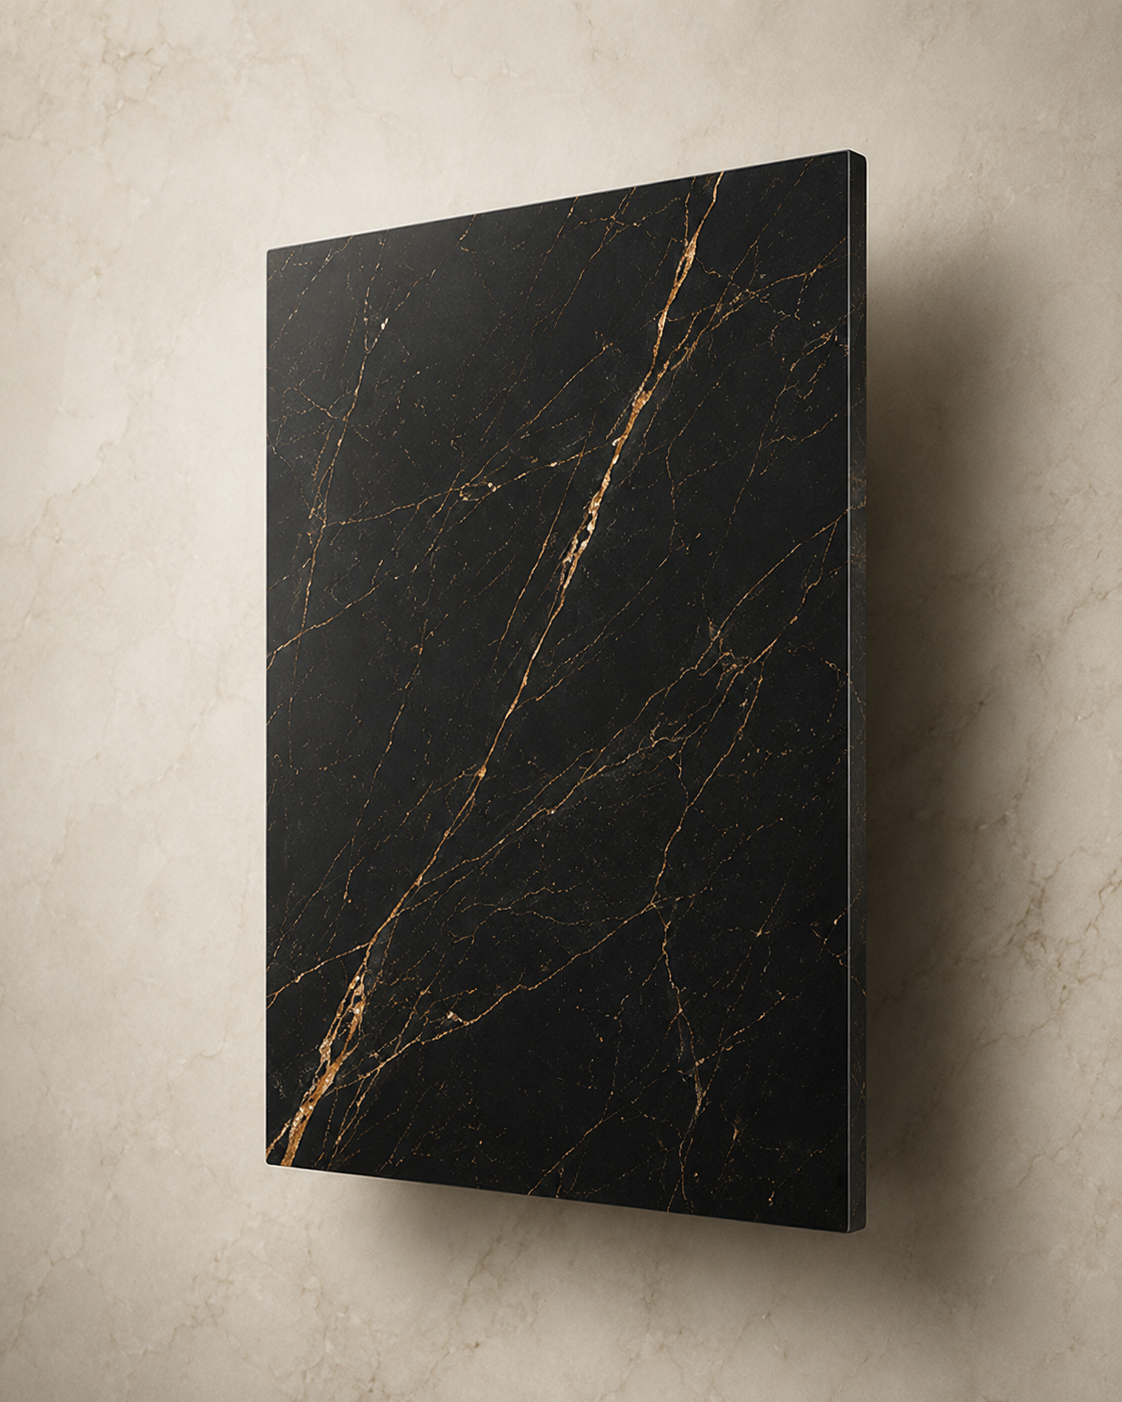
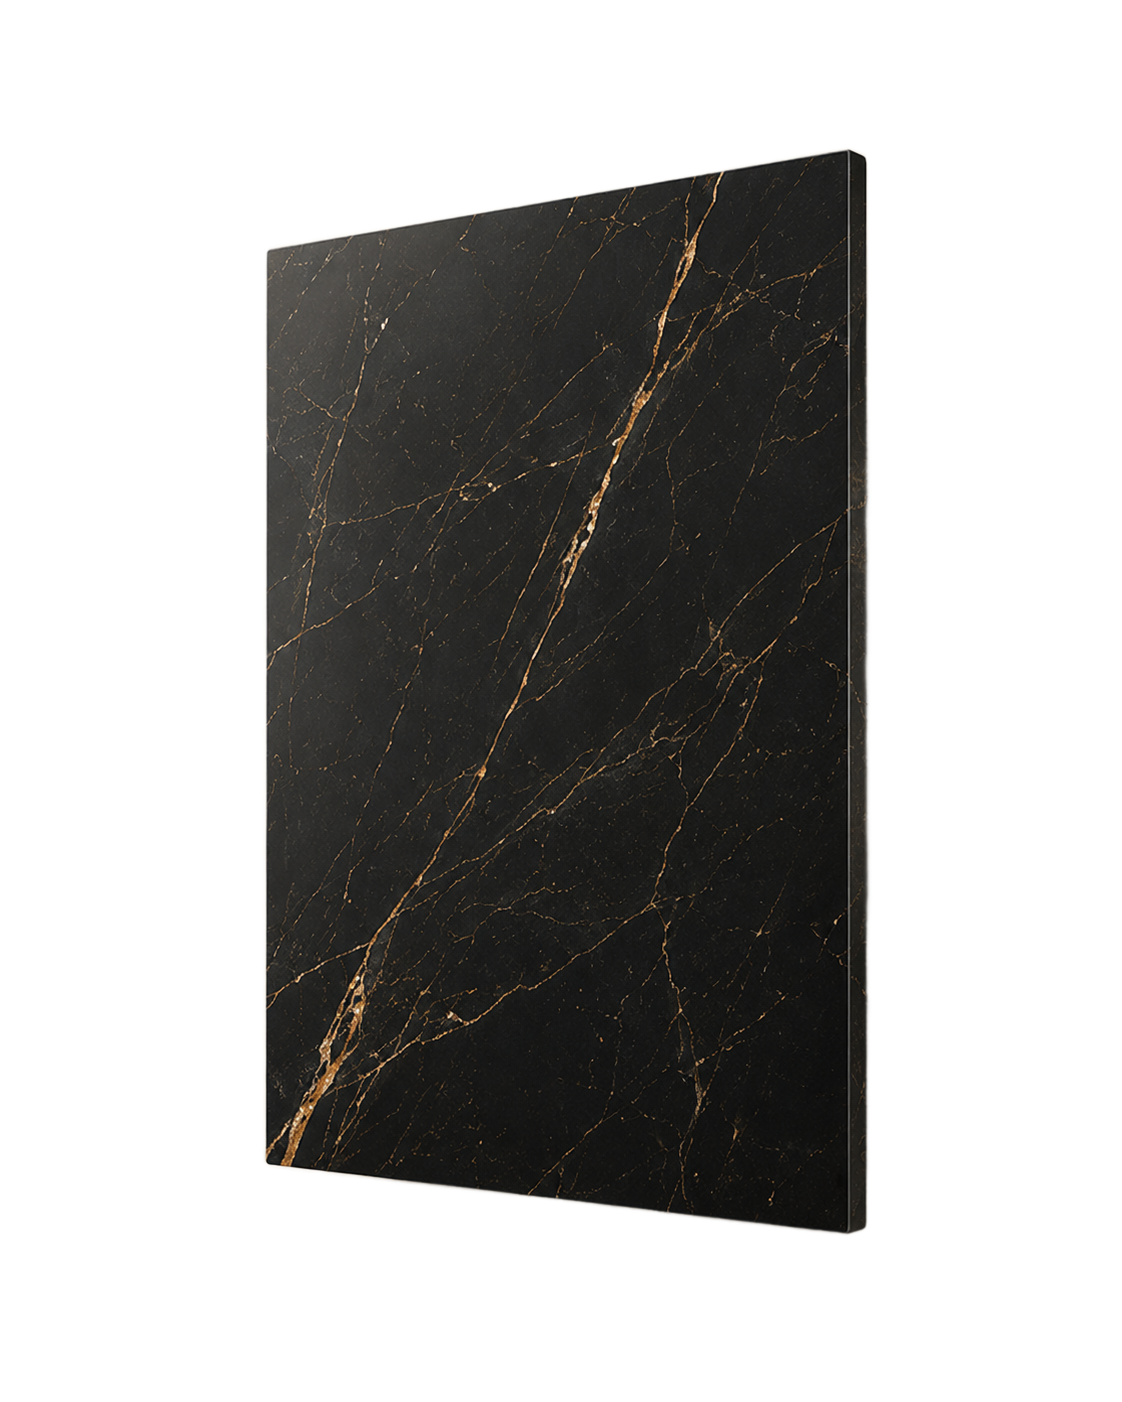
hx-trust-Divider entfernt, Alltagsszenen als Text-Tabs mit 3 humorvollen Spots, Material-Lab nutzt neue freigestellte Bilder
- Divider ueber dem 4er-Block 'Alles aus einer Hand / Mehr als nur Kueche / ...': '.hx-trust' border-top entfernt (war 1px gold). (verifiziert 0px)\n- KitchenFeelingCard: die 4 Alltags-/Humor-Szenen jetzt als TEXT-Tabs (wie Warm/Ruhig/Elegant/Alltag) statt Thumbnail-Cards, umbenannt zu Hausaufgaben / Wocheneinkauf / Backen / Fruehstuecken (kein Vorschaubild). Jede Szene hat 3 humorvolle Ankerpunkte (Hotspots) im Foto im Stil der Seite (trockener DU-Humor). Klick wechselt Bild + Spots + Headline (verifiziert: aktiv, 3 Spots). Lichtregler bleibt.\n- Material-Lab: nutzt die neuen, sauber freigestellten Bilder (m01-m10, transparenter Hintergrund) – CSS-clip-path-Hack entfernt, nur noch sauberer Drop-Shadow fuer Tiefe.\nbuild green, 0 console errors, kein Overflow.

diff --git a/src/components/KitchenFeelingCard.jsx b/src/components/KitchenFeelingCard.jsx
@@ -53,10 +53,42 @@ const FEELINGS = [
 // Zusätzliche Alltags-/Humor-Szenen (zweite Reihe unter den Tabs) – steuern primär den Bildwechsel.
 // Hinweis: echte Szenenbilder werden später ausgetauscht; aktuell hochwertige Küchenfotos als Platzhalter.
 const SCENES = [
-  { key: 'Hausaufgaben-Chaos', img: scene1, h: 'Hausaufgaben-Chaos.', bullets: ['Die Insel wird zum Schreibtisch – und das darf sie.', 'Platz für Bücher, Brote und Mathe gleichzeitig.'] },
-  { key: 'Einkauf eskaliert', img: scene2, h: 'Einkauf eskaliert.', bullets: ['Acht Tüten, eine Ablage – gut, wenn sie da ist.', 'Kurze Wege von der Tür zum Kühlschrank.'] },
-  { key: 'Mehlwolke', img: scene3, h: 'Mehlwolke.', bullets: ['Backtag heißt: pflegeleichte Oberflächen.', 'Einmal drüberwischen statt Großputz.'] },
-  { key: 'Frühstück mit Hund', img: scene4, h: 'Frühstück mit Hund.', bullets: ['Offen, hell und mittendrin im Leben.', 'Ein Platz, an dem alle zusammenkommen.'] },
+  {
+    key: 'Hausaufgaben', img: scene1, h: 'Hausaufgaben.',
+    bullets: ['Die Insel wird zum Schreibtisch – und das darf sie.', 'Genug Platz für Bücher und Abendbrot zugleich.'],
+    spots: [
+      { x: 40, y: 40, t: 'Mathe-Frust. Wenigstens gut beleuchtet.' },
+      { x: 66, y: 58, t: 'Platz für Hefte UND Abendbrot.' },
+      { x: 30, y: 72, t: 'Steckdose für den Taschenrechner-Notfall.' },
+    ],
+  },
+  {
+    key: 'Wocheneinkauf', img: scene2, h: 'Wocheneinkauf.',
+    bullets: ['Kurze Wege von der Tür zum Kühlschrank.', 'Ablage da, wenn acht Tüten gleichzeitig kommen.'],
+    spots: [
+      { x: 34, y: 44, t: 'Acht Tüten, eine Ablage. Reicht.' },
+      { x: 66, y: 36, t: 'Kühlschrank in Reichweite – kein Marathon.' },
+      { x: 50, y: 74, t: 'Pfand-Ecke. Offiziell: Stauraum.' },
+    ],
+  },
+  {
+    key: 'Backen', img: scene3, h: 'Backen.',
+    bullets: ['Pflegeleichte Oberflächen für den Mehl-Tag.', 'Arbeitshöhe, die den Rücken nicht bestraft.'],
+    spots: [
+      { x: 40, y: 42, t: 'Mehlwolke? Die Oberfläche zuckt nicht.' },
+      { x: 68, y: 56, t: 'Arbeitshöhe, die den Rücken schont.' },
+      { x: 28, y: 70, t: 'Platz für Versuch Nummer drei.' },
+    ],
+  },
+  {
+    key: 'Frühstücken', img: scene4, h: 'Frühstücken.',
+    bullets: ['Offen, hell und mittendrin im Leben.', 'Ein Platz, an dem alle zusammenkommen – auch der Hund.'],
+    spots: [
+      { x: 36, y: 38, t: 'Kaffee-Hotspot. Vor allen anderen.' },
+      { x: 66, y: 60, t: 'Hundeblick-sichere Sitzecke.' },
+      { x: 52, y: 24, t: 'Morgenlicht. Ohne Aufpreis.' },
+    ],
+  },
 ]
 
 export default function KitchenFeelingCard() {
@@ -88,13 +120,12 @@ export default function KitchenFeelingCard() {
               </button>
             ))}
           </div>
-          <div className="kfeel__scenes" aria-label="Alltagsszenen">
+          <div className="kfeel__tabs kfeel__tabs--scenes" role="tablist" aria-label="Alltagsszenen">
             {SCENES.map((s, i) => (
-              <button key={s.key} type="button" aria-pressed={scene === i}
-                className={`kfeel__scene ${scene === i ? 'is-active' : ''}`}
+              <button key={s.key} type="button" role="tab" aria-selected={scene === i}
+                className={`kfeel__tab ${scene === i ? 'is-active' : ''}`}
                 onClick={() => { setScene(scene === i ? null : i); setSpot(null) }}>
-                <span className="kfeel__scenethumb" style={{ backgroundImage: `url(${s.img})` }} aria-hidden="true" />
-                <span className="kfeel__scenelabel">{s.key}</span>
+                {s.key}
               </button>
             ))}
           </div>
@@ -107,7 +138,7 @@ export default function KitchenFeelingCard() {
               transition={{ duration: 0.55, ease: [0.16, 1, 0.3, 1] }} loading="lazy" />
           </AnimatePresence>
           <span className="kfeel__lightveil" aria-hidden="true" />
-          {(sc ? [] : f.spots).map((sp, i) => (
+          {(sc ? sc.spots : f.spots).map((sp, i) => (
             <button key={i} type="button" className={`kfeel__spot ${spot === i ? 'is-open' : ''}`} style={{ left: `${sp.x}%`, top: `${sp.y}%` }}
               onMouseEnter={() => setSpot(i)} onMouseLeave={() => setSpot(null)} onClick={() => setSpot(spot === i ? null : i)} aria-label={sp.t}>
               <span className="kfeel__spotdot" />

diff --git a/src/styles.css b/src/styles.css
@@ -11392,7 +11392,7 @@ a.footer__contact-line:hover {
 .hx-card__cta svg { transition: transform 0.3s ease; }
 .hx-card:hover .hx-card__cta svg { transform: translateX(4px); }
 
-.hx-trust { display: grid; grid-template-columns: repeat(4, 1fr); gap: 24px; margin-top: 48px; padding-top: 32px; border-top: 1px solid rgba(120, 95, 45, 0.18); }
+.hx-trust { display: grid; grid-template-columns: repeat(4, 1fr); gap: 24px; margin-top: 40px; padding-top: 0; border-top: none; }
 .hx-trust__col { display: flex; flex-direction: column; gap: 6px; }
 .hx-trust__ic { width: 42px; height: 42px; border-radius: 11px; display: grid; place-items: center; color: var(--bronze); background: rgba(201, 160, 80, 0.12); border: 1px solid rgba(201, 160, 80, 0.25); margin-bottom: 4px; }
 .hx-trust__t { font-size: 0.74rem; letter-spacing: 0.12em; text-transform: uppercase; font-weight: 700; color: var(--ink); }
@@ -11514,17 +11514,10 @@ a.footer__contact-line:hover {
 .kfeel__tab:hover { border-color: rgba(201, 160, 80, 0.5); color: var(--bronze); }
 .kfeel__tab.is-active { background: var(--grad-gold); border-color: transparent; color: var(--soft-black); box-shadow: 0 10px 22px -10px rgba(168, 122, 40, 0.6); }
 
-/* Zweite Reihe: zusätzliche Alltags-/Humor-Szenen */
-.kfeel__scenes { display: grid; grid-template-columns: repeat(4, 1fr); gap: 8px; }
-.kfeel__scene { display: flex; flex-direction: column; gap: 6px; padding: 5px 5px 7px; border-radius: 13px; border: 1px solid var(--line-dark); background: rgba(255, 255, 255, 0.55); cursor: pointer; font: inherit; text-align: center; transition: border-color 0.25s ease, box-shadow 0.25s ease, transform 0.25s ease, background 0.25s ease; }
-.kfeel__scene:hover { border-color: rgba(201, 160, 80, 0.5); transform: translateY(-2px); box-shadow: 0 14px 26px -16px rgba(120, 90, 40, 0.55); }
-.kfeel__scene.is-active { border-color: transparent; background: rgba(201, 160, 80, 0.14); box-shadow: 0 0 0 2px var(--gold-bright), 0 12px 24px -12px rgba(168, 122, 40, 0.55); }
-.kfeel__scenethumb { display: block; width: 100%; aspect-ratio: 4 / 3; border-radius: 9px; background-size: cover; background-position: center; }
-.kfeel__scenelabel { font-size: 0.66rem; font-weight: 600; line-height: 1.2; letter-spacing: 0.01em; color: var(--ink-soft); }
-.kfeel__scene.is-active .kfeel__scenelabel { color: var(--bronze); }
+/* Zweite Tab-Reihe: zusätzliche Alltags-/Humor-Szenen (gleicher Look wie die Stimmungs-Tabs) */
+.kfeel__tabs--scenes { margin-top: 8px; }
 @media (max-width: 560px) {
-  .kfeel__scenes { grid-template-columns: none; grid-auto-flow: column; grid-auto-columns: 42%; overflow-x: auto; scroll-snap-type: x mandatory; -webkit-overflow-scrolling: touch; padding-bottom: 4px; }
-  .kfeel__scene { scroll-snap-align: start; }
+  .kfeel__tabs--scenes { grid-auto-flow: column; grid-auto-columns: minmax(46%, 1fr); grid-template-columns: none; overflow-x: auto; -webkit-overflow-scrolling: touch; padding-bottom: 4px; }
 }
 
 .kfeel__stage { position: relative; aspect-ratio: 16 / 10; border-radius: 16px; overflow: hidden; background: var(--cream); --lv: 0; }
@@ -11602,10 +11595,8 @@ a.footer__contact-line:hover {
 .matcard3d { position: absolute; top: 50%; left: 50%; width: 420px; aspect-ratio: 1122 / 1402; margin: 0; padding: 0; border: none; background: none; cursor: pointer; border-radius: 0; overflow: visible; transition: transform 0.6s cubic-bezier(0.16, 1, 0.3, 1), opacity 0.6s ease, filter 0.5s ease; transform-style: preserve-3d; }
 .matcard3d img {
   width: 100%; height: 100%; object-fit: contain; display: block;
-  /* volle Platten-Silhouette inkl. sichtbarer Materialstaerke/Tiefe – kein Wand-/Marmor-/Betonrand */
-  -webkit-clip-path: polygon(25% 18%, 74% 8%, 80% 14%, 79% 81%, 72% 86%, 24% 84%);
-  clip-path: polygon(25% 18%, 74% 8%, 80% 14%, 79% 81%, 72% 86%, 24% 84%);
-  filter: drop-shadow(0 0 1px rgba(35, 25, 12, 0.55)) drop-shadow(0 26px 34px rgba(55, 40, 20, 0.34)) drop-shadow(0 6px 12px rgba(55, 40, 20, 0.22));
+  /* Bilder sind bereits sauber freigestellt (transparenter Hintergrund) – nur noch Tiefe/Schatten */
+  filter: drop-shadow(0 26px 34px rgba(55, 40, 20, 0.34)) drop-shadow(0 6px 12px rgba(55, 40, 20, 0.22));
 }
 .matcard3d__cap { display: none; }
 .matlab__nav { display: flex; align-items: center; justify-content: center; gap: 18px; margin-top: 14px; }
